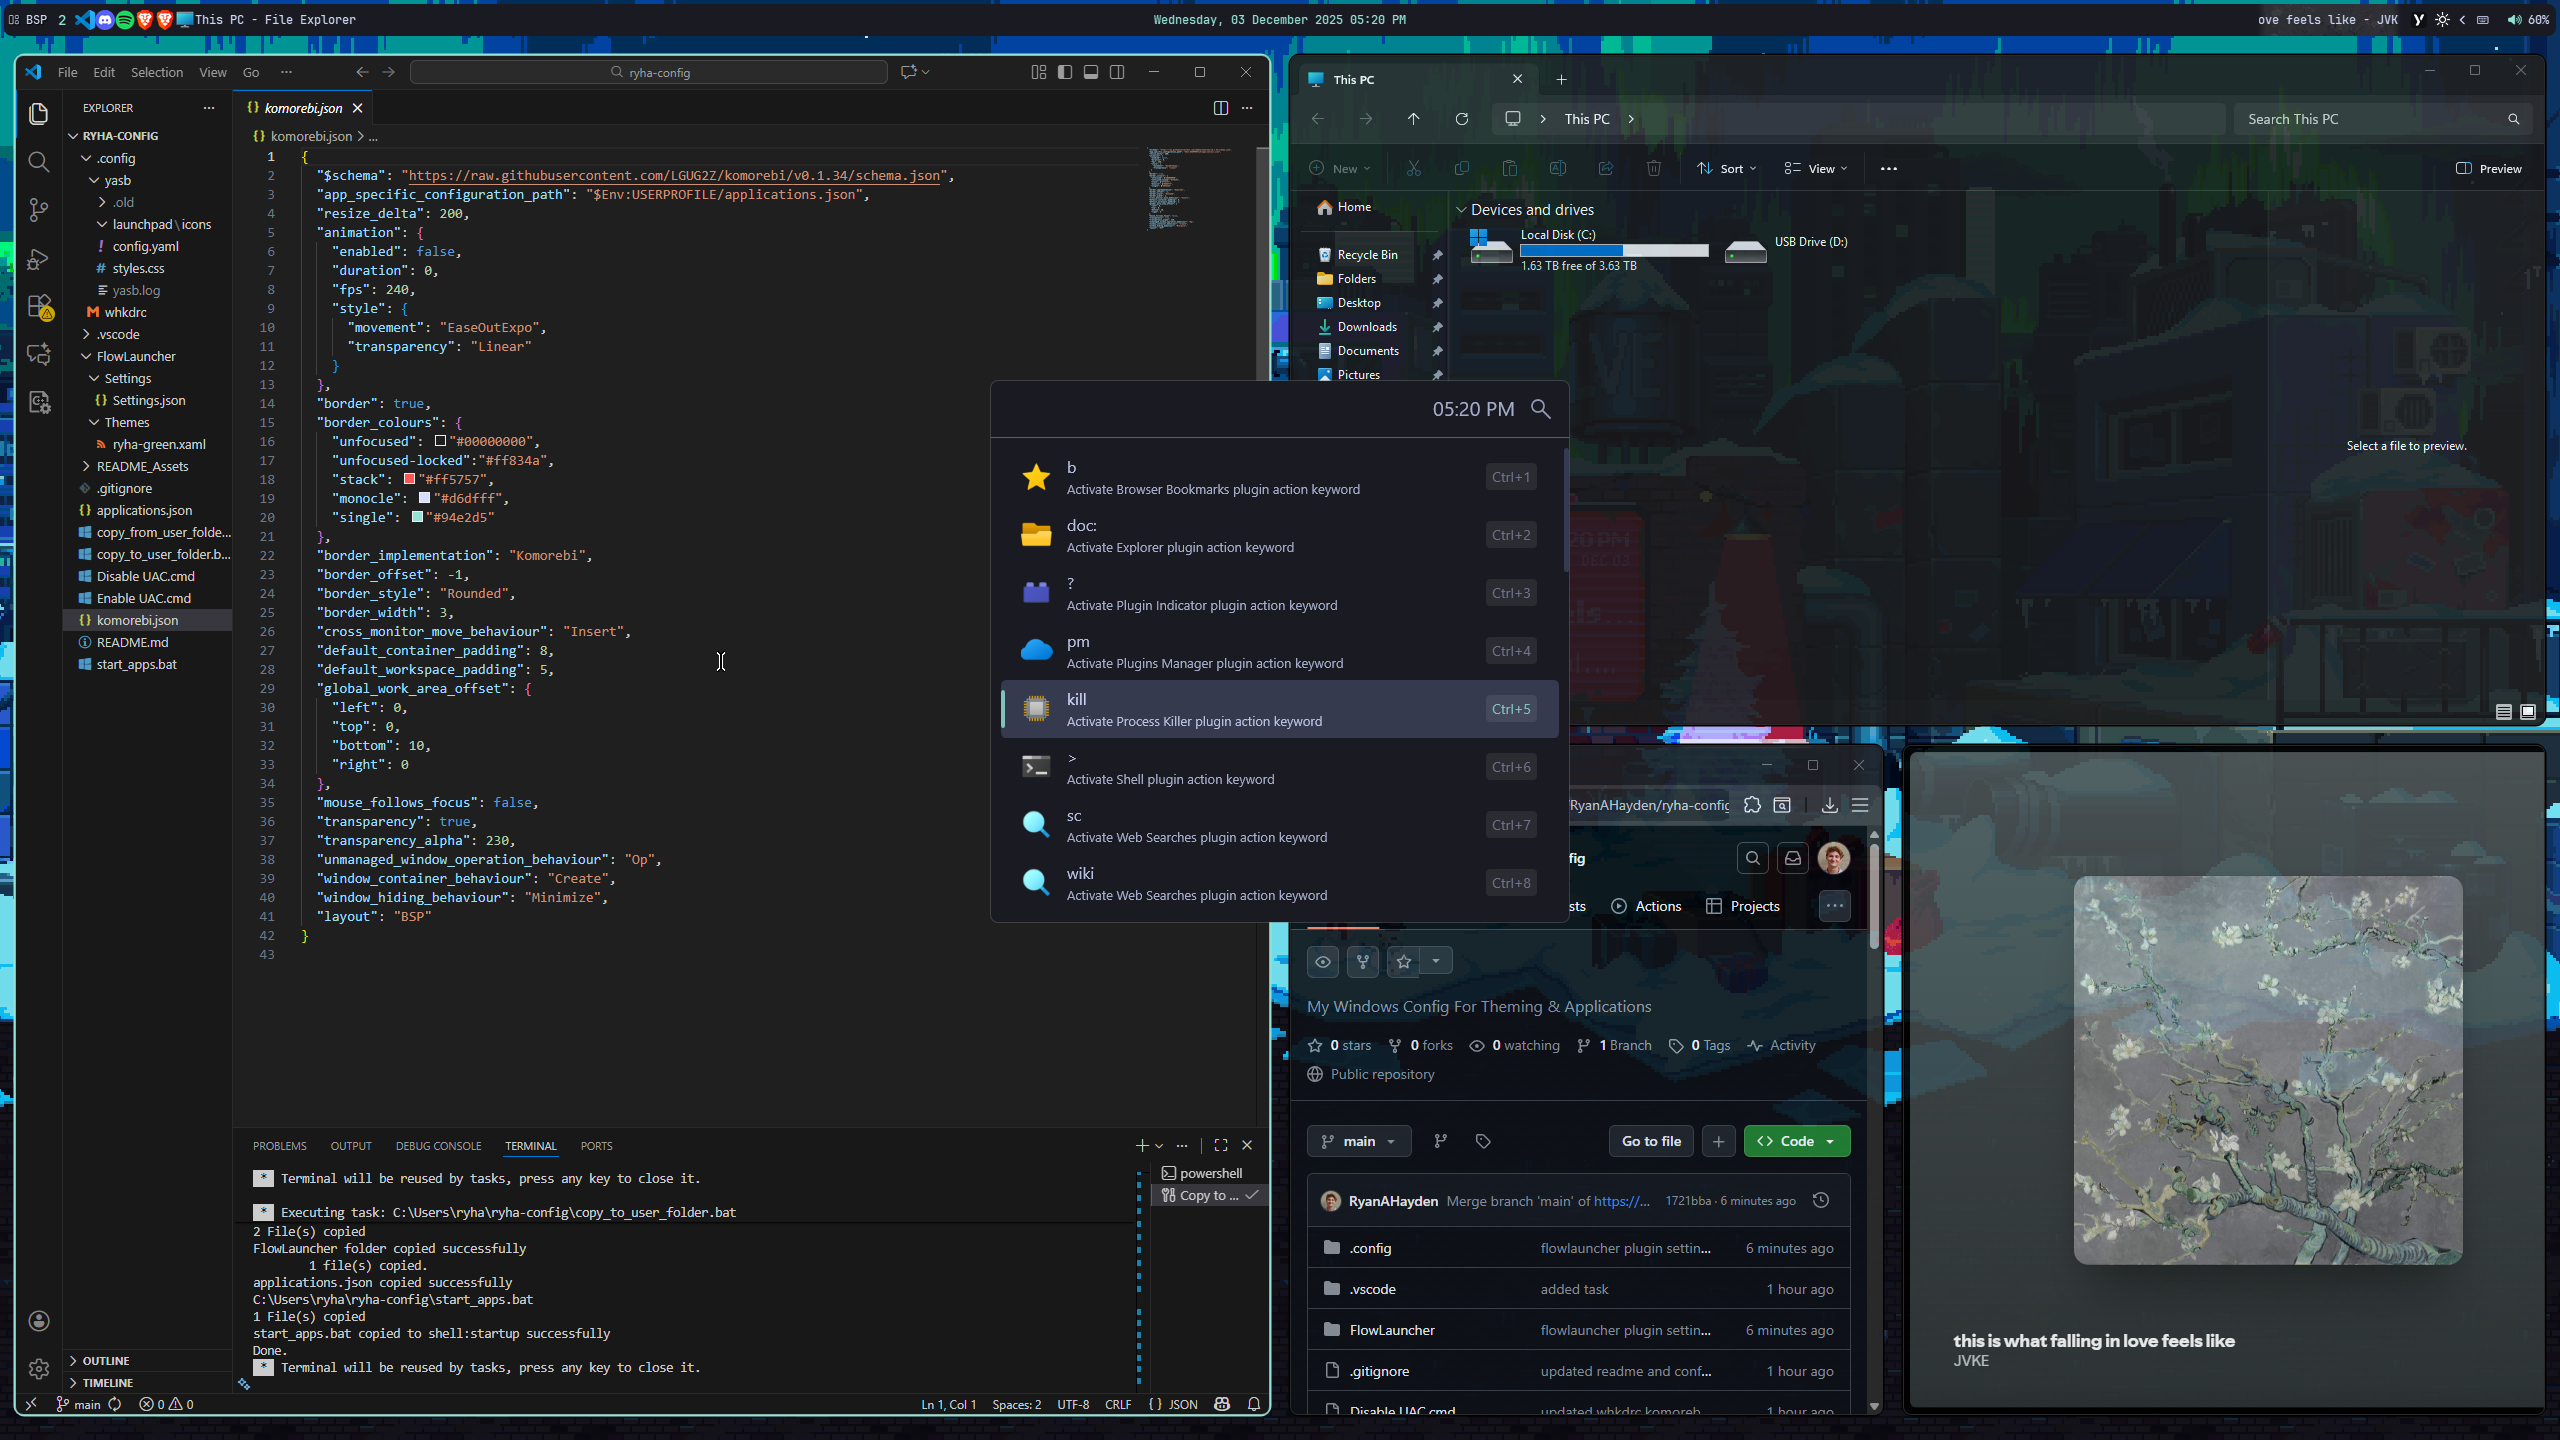
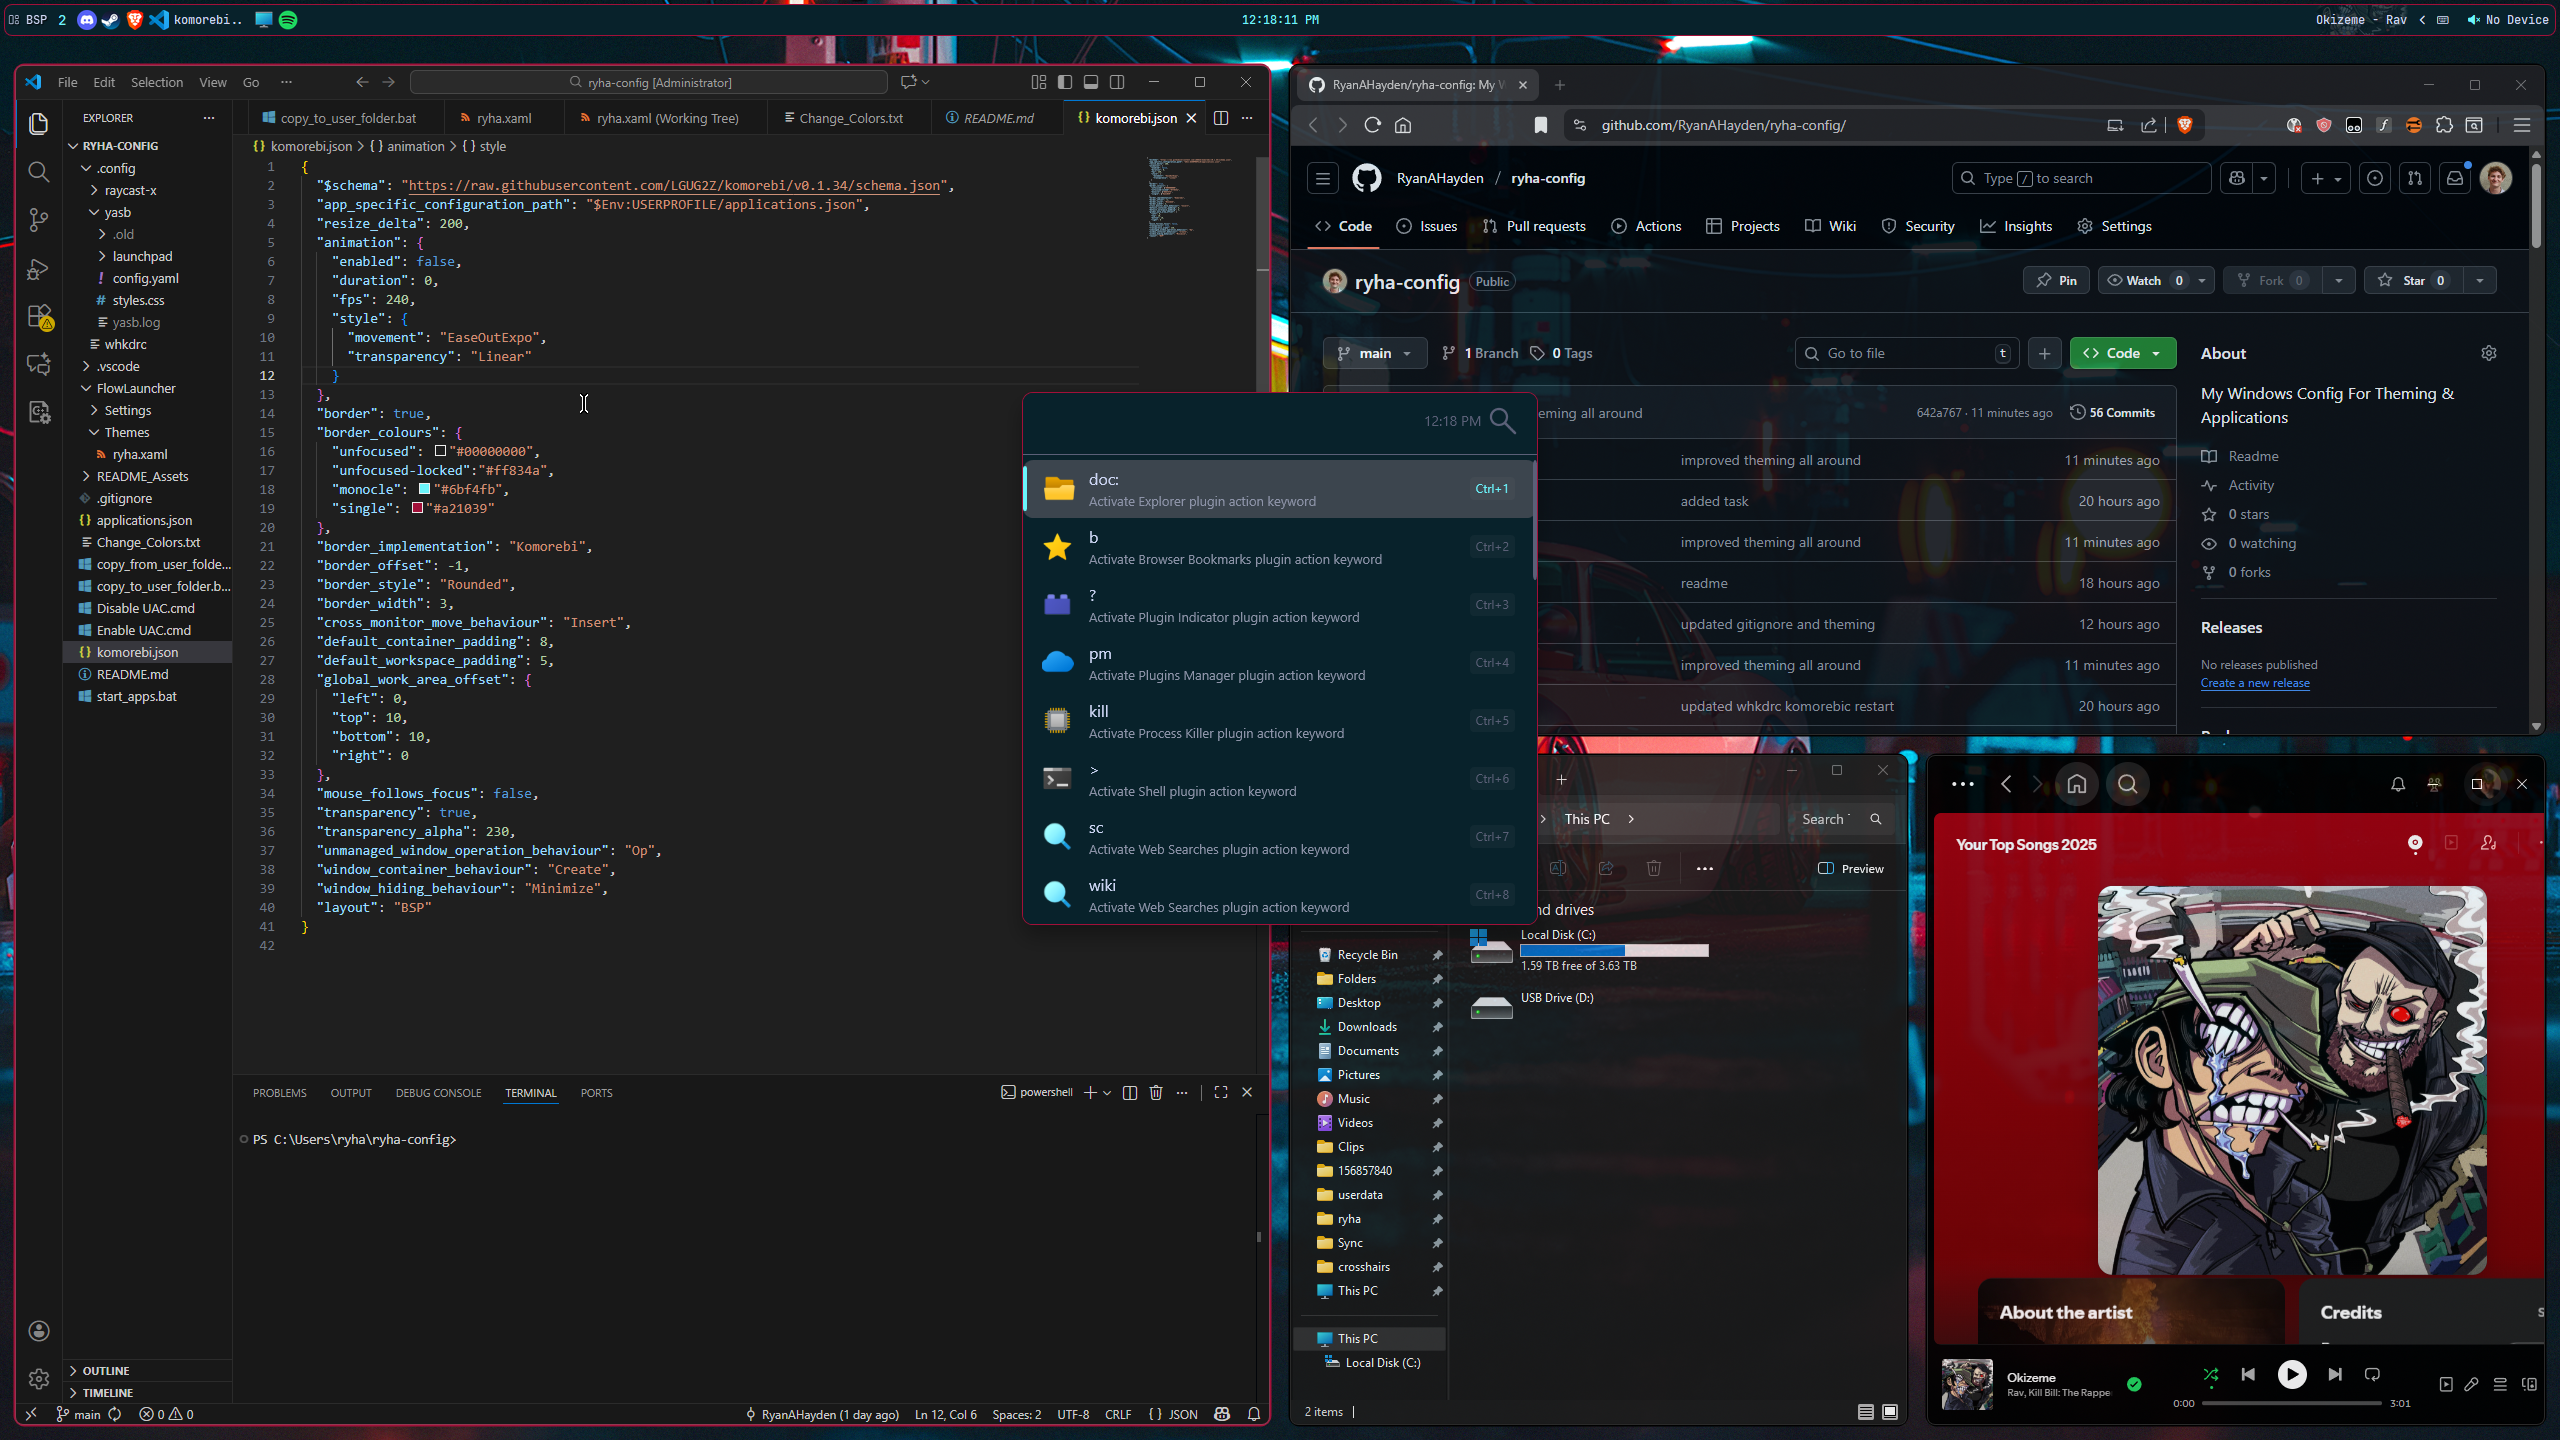
update preview image, added replace colors to readme

diff --git a/README.md b/README.md
@@ -6,17 +6,23 @@ Mostly for personal reasons but feel free to mess around with the configs.
 ![screenshot of windows setup](README_Assets/preview.png)
 <br>
 
-# Recommended
-
-## < [EarTrumpet](https://eartrumpet.app/) >
-```
-winget install File-New-Project.EarTrumpet
-```
-### Settings
-Open Taskbar flyout: `Ctrl+Shift+Alt+S`
+## Replace the theme colors with your own:
+1. In CHANGE_COLORS.md Select each color code
+2. Replace all instances in your theme files
+3. Run task copy to user folder
+4. Apply the theme to Flow Launcher using:
+   ```
+   fltheme ryha
+   ```
+![showing how to change colors](README_Assets/ChangeColors.png)
+# Install
 
 ## < [Nerd Font](https://github.com/ryanoasis/nerd-fonts/releases/latest/download/JetBrainsMono.zip) > (Required for icons)
 
+## < [Komorebi](https://github.com/LGUG2Z/komorebi) >
+```
+winget install -e --id LGUG2Z.komorebi
+```
 ## < [YASB](https://docs.yasb.dev/latest/installation) >
 ```
 winget install --id DEVCOM.JetBrainsMonoNerdFont
@@ -33,7 +39,6 @@ winget install windhawk
 - `windows-11-start-menu-styler` (SideBySideMinimal)
   
 <img src="README_Assets/sidebyside.png" alt="windows start menu" width="200" />
-
 
 ## < [Flow Launcher](https://github.com/Flow-Launcher/Flow.Launcher) >
 ```
@@ -54,11 +59,21 @@ Set explorer shortcuts like these:
 
 <img src="README_Assets/example_quicklaunch.png" alt="example" width="400" />
 
+
+## < [THide](https://github.com/amnweb/thide?tab=readme-ov-file) > (Taskbar Hide)
+
+# Recommended
+## < [EarTrumpet](https://eartrumpet.app/) >
+```
+winget install File-New-Project.EarTrumpet
+```
 ## < [Nilesoft](https://nilesoft.org/download) >
 ```
 winget install nilesoft.shell
 ```
-## < [THide](https://github.com/amnweb/thide?tab=readme-ov-file) > (Taskbar Hide)
+
+### Settings
+Open Taskbar flyout: `Ctrl+Shift+Alt+S`
 
 # Optional
 ## < [masir](https://github.com/LGUG2Z/masir) > (Auto Focus Window Cursor is over)

diff --git a/CHANGE_COLORS.md b/CHANGE_COLORS.md
@@ -1,0 +1,23 @@
+# Theme Color Configuration
+
+## Current Color Palette
+Update these color codes in your theme configuration:
+
+|    Element   |   Color   |
+|--------------|-----------|
+| Main         | #6bf4fb |
+| Background   | #08222b |
+| Border       | #a21039 |
+| Text         | #cdd6f4 |
+| Alt Text     | #8d93a8 |
+| Surface2     | #363a4f |
+| Alt Elements | #5b6078 |
+| Foreground   | #8aadf4 |
+
+## How to Apply
+1. Select each color code above
+2. Replace all instances in your theme files
+3. Apply the theme to Flow Launcher using:
+   ```
+   fltheme ryha
+   ```
